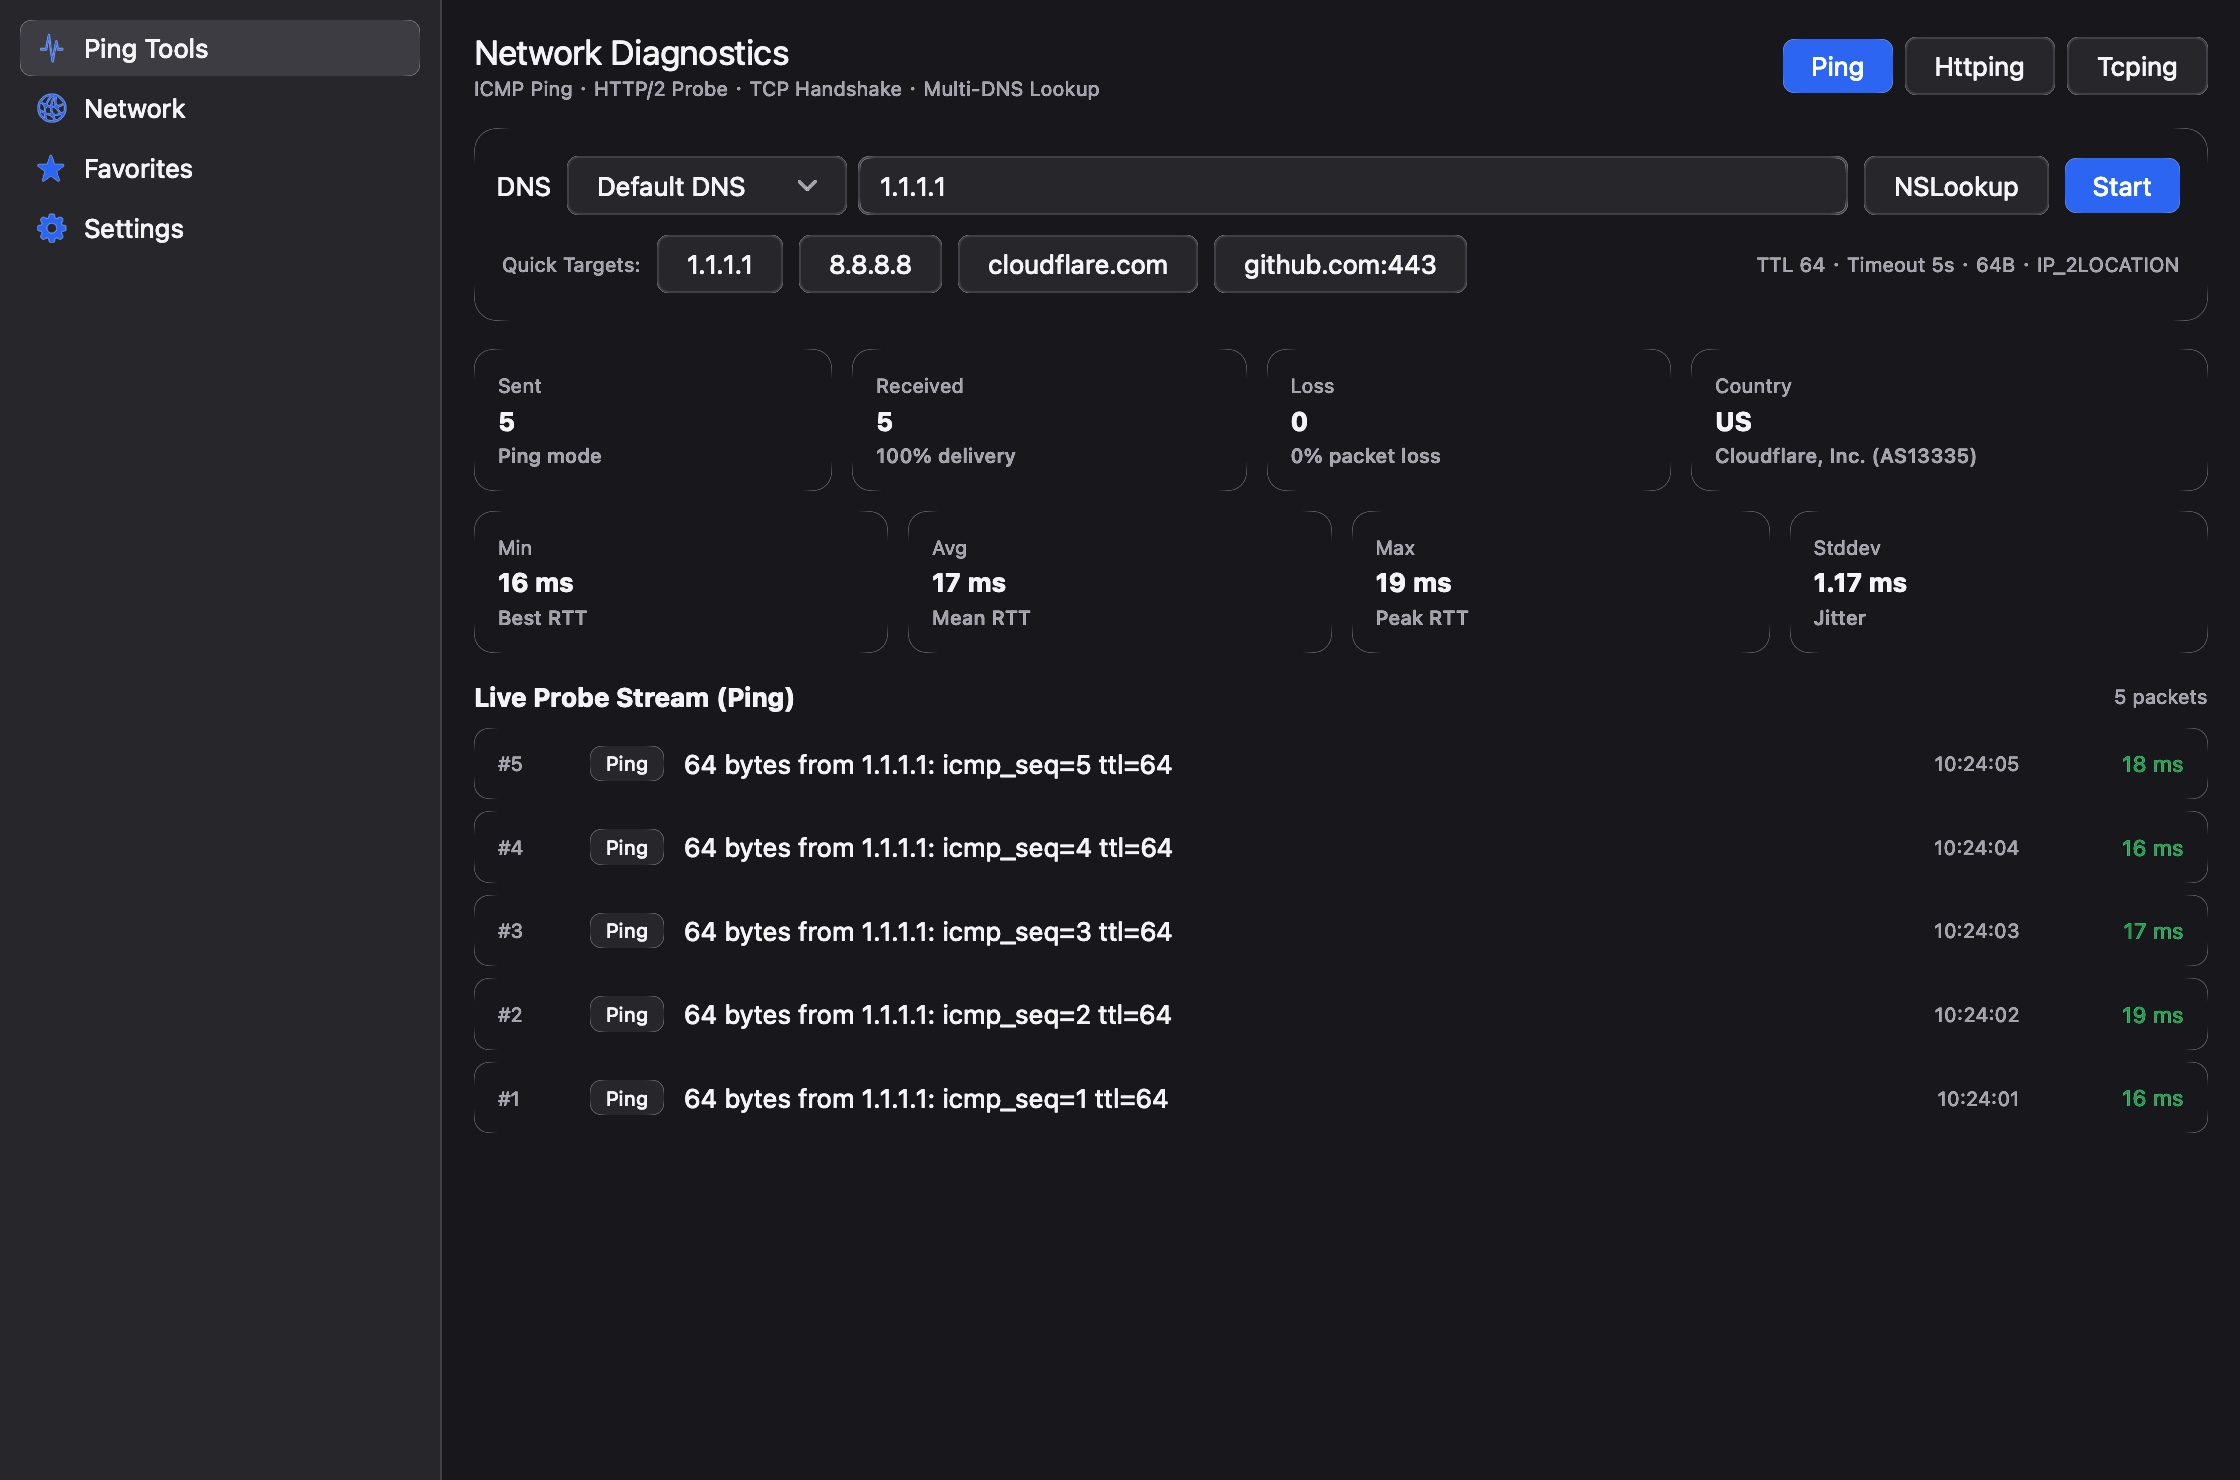
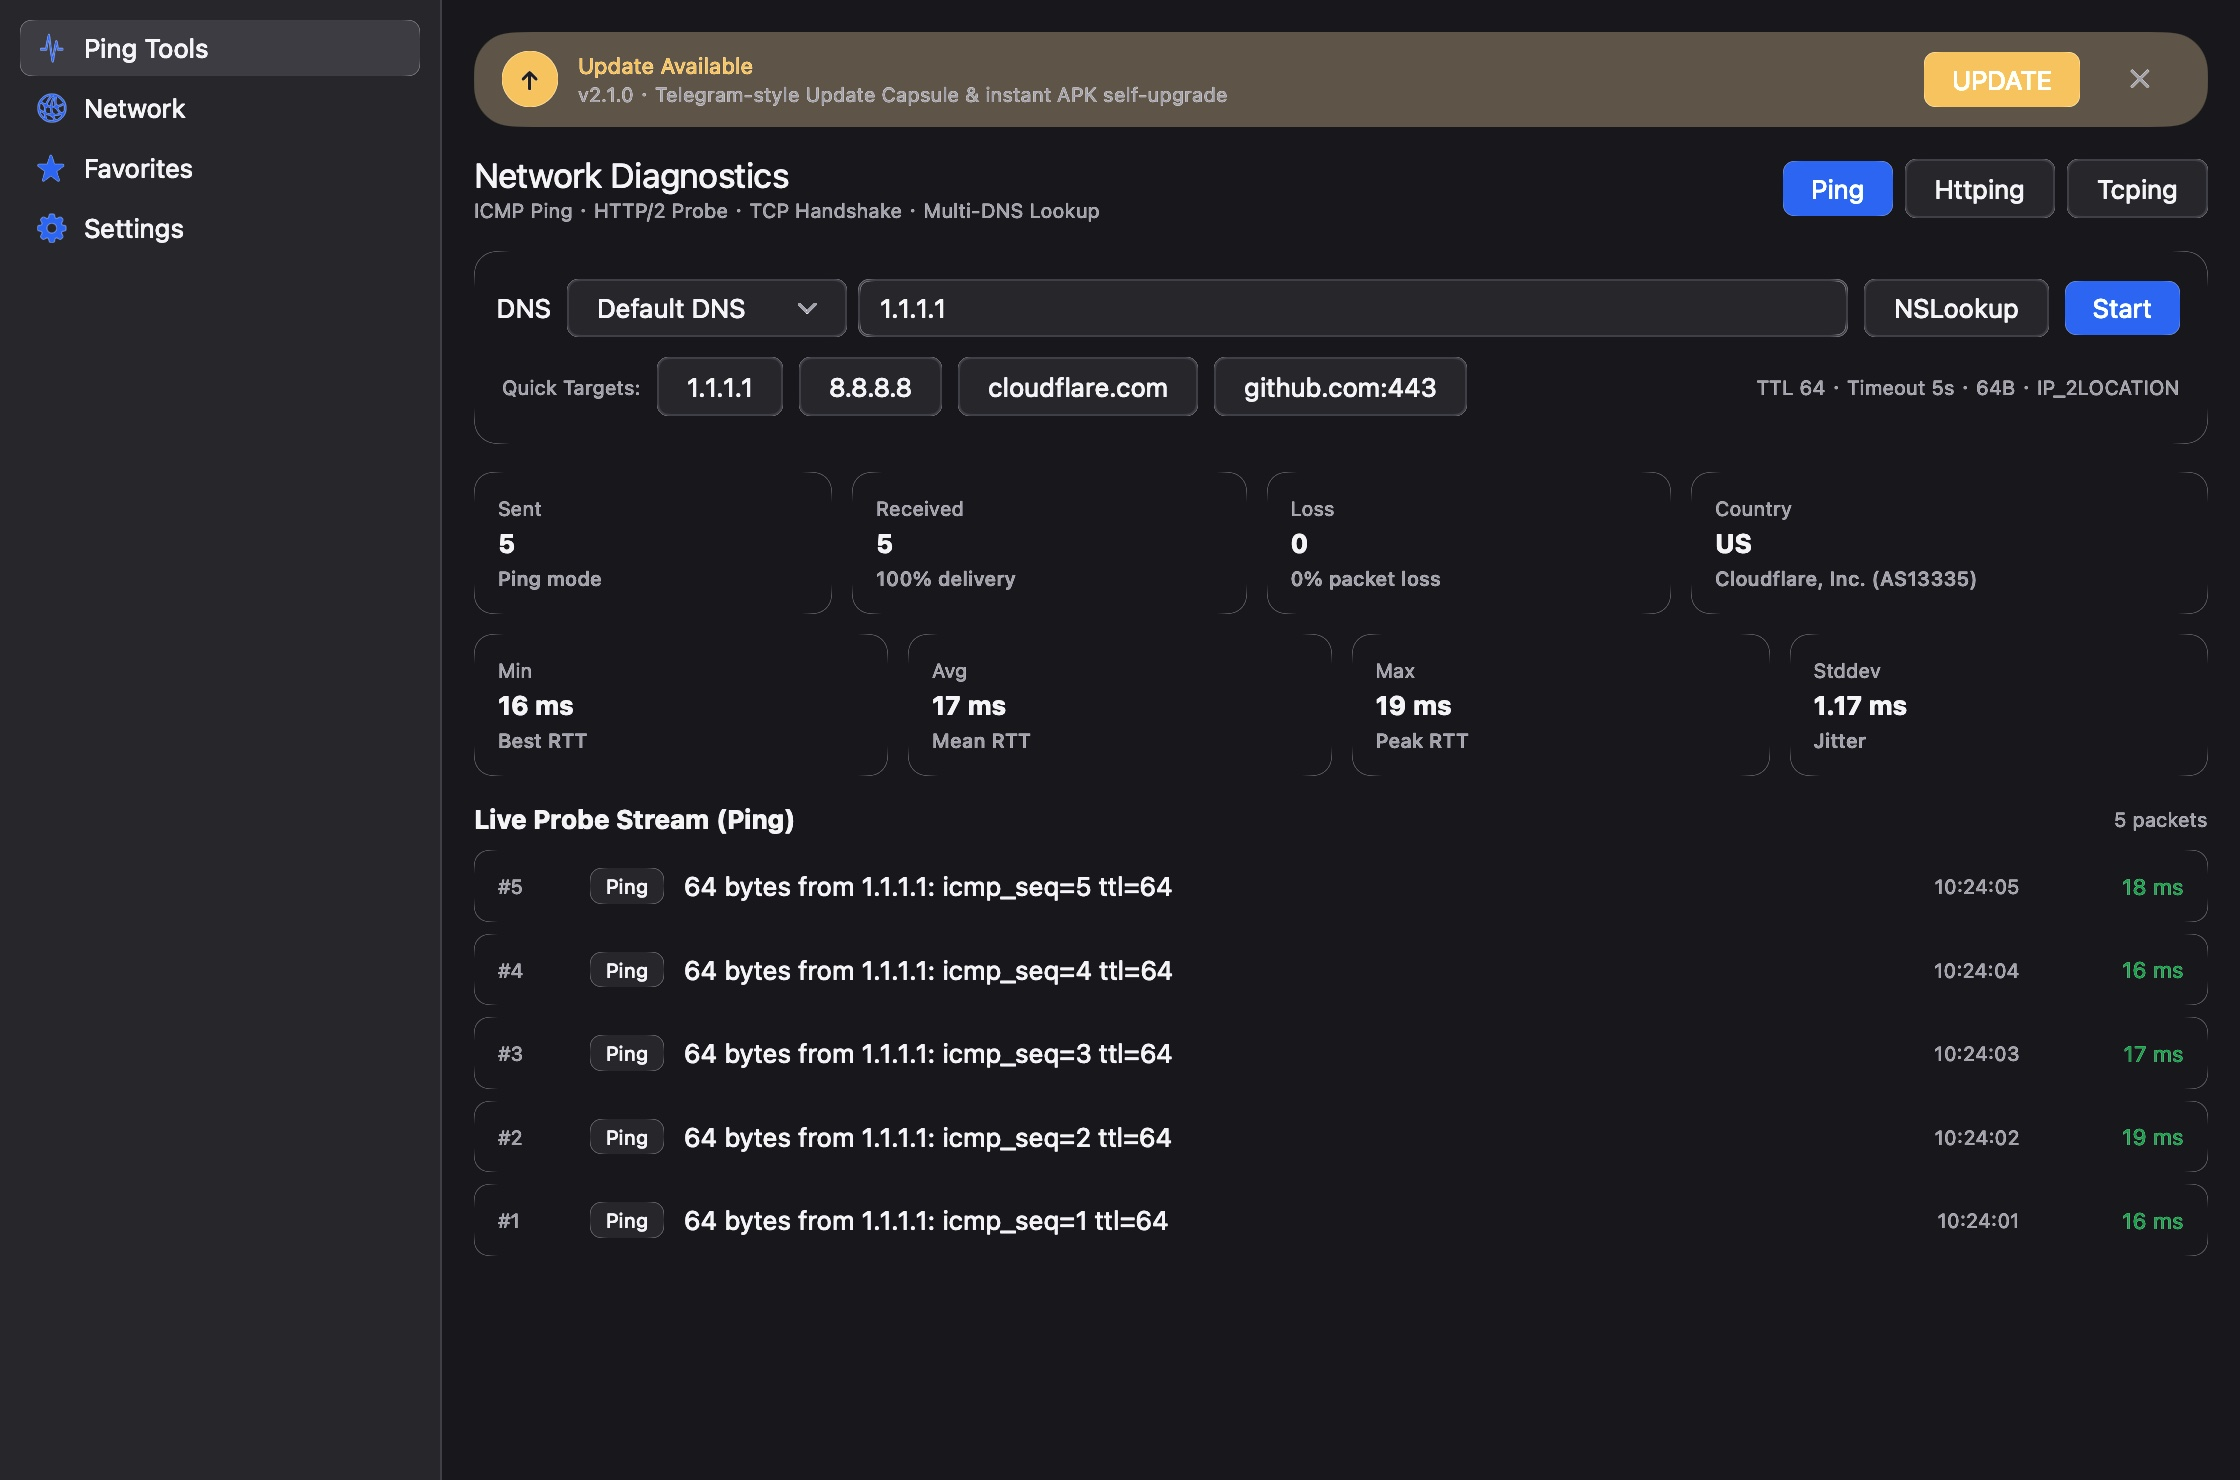
feat(update): integrate built-in MyPHP UpdateCapsule with GitHub Releases auto-check and in-app APK upgrade

diff --git a/src/LinkingApp.php b/src/LinkingApp.php
@@ -1,11 +1,21 @@
 <?php
 declare(strict_types=1);
 
-use MyPHP\{App, URLRequest, URLSession, Window};
+use MyPHP\{App, Shell, URLRequest, URLSession, Window};
 
 final class LinkingApp
 {
     public ?Window $window = null;
+
+    // App version & Update Capsule state (matches agc_toolkit UpdateCapsuleWidget)
+    public string $currentVersion = '2.0.0';
+    public string $updateStatus = 'idle'; // 'idle' | 'checking' | 'available' | 'downloading' | 'installing' | 'failed'
+    public string $updateVersion = '';
+    public string $updateNotes = '';
+    public string $updateDownloadUrl = 'https://github.com/owner888/agc_linking/releases/latest/download/Linking.apk';
+    public float $updateProgress = 0.0;
+    public bool $updateForce = false;
+    public string $skippedVersion = '';
 
     // Navigation tab: 'network' | 'ping' | 'favorites' | 'settings'
     public string $tab = 'ping';
@@ -108,6 +118,13 @@ final class LinkingApp
     public function __construct(bool $deterministicProbes = false)
     {
         $this->deterministicProbes = $deterministicProbes;
+        $cfgPath = dirname(__DIR__) . '/myphp.json';
+        if (is_file($cfgPath)) {
+            $cfg = json_decode((string) file_get_contents($cfgPath), true);
+            if (is_array($cfg) && !empty($cfg['version'])) {
+                $this->currentVersion = (string) $cfg['version'];
+            }
+        }
         $this->seedDefaults();
     }
 
@@ -646,6 +663,187 @@ final class LinkingApp
         $this->activeNodeId = $newId;
         $this->nodeImportInput = '';
         $this->appendLog('INFO', "Imported {$protocol} profile: {$name}");
+    }
+
+    // --- In-App Update Capsule Actions (GitHub Releases) ---
+
+    public function checkUpdate(bool $manual = false): void
+    {
+        if ($this->updateStatus === 'downloading' || $this->updateStatus === 'installing') {
+            return;
+        }
+        $this->updateStatus = 'checking';
+        if ($manual) {
+            $this->appendLog('INFO', "Checking GitHub Releases (owner888/agc_linking) for updates (current v{$this->currentVersion})...");
+        }
+
+        if ($this->deterministicProbes) {
+            $this->applyReleasePayload([
+                'tag_name' => 'v2.1.0',
+                'body' => 'Native GPU UpdateCapsule & faster multi-DNS probing',
+                'assets' => [
+                    [
+                        'name' => 'Linking.apk',
+                        'browser_download_url' => 'https://github.com/owner888/agc_linking/releases/latest/download/Linking.apk',
+                    ],
+                ],
+            ], $manual);
+            return;
+        }
+
+        if (class_exists(App::class)) {
+            App::go(function () use ($manual) {
+                try {
+                    $req = new URLRequest(
+                        'https://api.github.com/repos/owner888/agc_linking/releases/latest',
+                        headers: ['Accept' => 'application/vnd.github+json', 'User-Agent' => 'Linking-MyPHP/' . $this->currentVersion]
+                    );
+                    $data = URLSession::shared()->json($req);
+                    if (is_array($data)) {
+                        $this->applyReleasePayload($data, $manual);
+                    } else {
+                        $this->updateStatus = 'idle';
+                    }
+                } catch (\Throwable $e) {
+                    $this->updateStatus = 'idle';
+                    if ($manual) {
+                        $this->appendLog('ERROR', 'Update check failed: ' . $e->getMessage());
+                    }
+                }
+            });
+        }
+    }
+
+    /** @param array<string, mixed> $data */
+    private function applyReleasePayload(array $data, bool $manual): void
+    {
+        $tag = (string) ($data['tag_name'] ?? '');
+        $latest = ltrim($tag, 'vV');
+        if ($latest === '') {
+            $this->updateStatus = 'idle';
+            return;
+        }
+        $body = trim((string) ($data['body'] ?? ''));
+        $firstLine = strtok($body, "\r\n") ?: 'New version available on GitHub Releases';
+        $downloadUrl = 'https://github.com/owner888/agc_linking/releases/latest/download/Linking.apk';
+        foreach (($data['assets'] ?? []) as $asset) {
+            if (is_array($asset) && str_ends_with((string) ($asset['name'] ?? ''), '.apk')) {
+                $downloadUrl = (string) ($asset['browser_download_url'] ?? $downloadUrl);
+                break;
+            }
+        }
+
+        if (version_compare($latest, $this->currentVersion, '>')) {
+            if (!$manual && $this->skippedVersion === $latest) {
+                $this->updateStatus = 'idle';
+                return;
+            }
+            $this->updateVersion = $latest;
+            $this->updateNotes = $firstLine;
+            $this->updateDownloadUrl = $downloadUrl;
+            $this->updateProgress = 0.0;
+            $this->updateStatus = 'available';
+            $this->appendLog('INFO', "New version available: v{$latest} ({$firstLine})");
+        } else {
+            $this->updateStatus = 'idle';
+            if ($manual) {
+                $this->appendLog('INFO', "Already up to date (v{$this->currentVersion})");
+            }
+        }
+    }
+
+    public function simulateUpdateAvailable(): void
+    {
+        $this->updateVersion = '2.1.0';
+        $this->updateNotes = 'Telegram-style Update Capsule & instant APK self-upgrade';
+        $this->updateDownloadUrl = 'https://github.com/owner888/agc_linking/releases/latest/download/Linking.apk';
+        $this->updateProgress = 0.0;
+        $this->updateStatus = 'available';
+        $this->appendLog('INFO', 'Update capsule activated: v2.1.0 ready to install');
+    }
+
+    public function performUpdate(): void
+    {
+        if ($this->updateVersion === '' || $this->updateStatus === 'downloading' || $this->updateStatus === 'installing') {
+            return;
+        }
+        $this->updateStatus = 'downloading';
+        $this->updateProgress = 0.0;
+        $this->appendLog('INFO', "Downloading update v{$this->updateVersion} from {$this->updateDownloadUrl}...");
+
+        if ($this->deterministicProbes) {
+            $this->updateProgress = 1.0;
+            $this->updateStatus = 'installing';
+            $this->appendLog('INFO', "Update v{$this->updateVersion} downloaded; launching system package installer");
+            return;
+        }
+
+        if (class_exists(App::class)) {
+            $url = $this->updateDownloadUrl;
+            $ver = $this->updateVersion;
+            App::go(function () use ($url, $ver) {
+                $apkPath = rtrim(sys_get_temp_dir(), '/') . "/Linking_{$ver}.apk";
+                $fp = @fopen($apkPath, 'wb');
+                if ($fp === false) {
+                    $this->updateStatus = 'failed';
+                    $this->appendLog('ERROR', "Cannot write temporary APK to {$apkPath}");
+                    return;
+                }
+                $ch = curl_init($url);
+                $lastPct = -1;
+                curl_setopt_array($ch, [
+                    CURLOPT_FILE => $fp,
+                    CURLOPT_FOLLOWLOCATION => true,
+                    CURLOPT_MAXREDIRS => 8,
+                    CURLOPT_CONNECTTIMEOUT => 20,
+                    CURLOPT_TIMEOUT => 300,
+                    CURLOPT_SSL_VERIFYPEER => false,
+                    CURLOPT_NOPROGRESS => false,
+                    CURLOPT_PROGRESSFUNCTION => function ($resource, int $dlTotal, int $dlNow) use (&$lastPct): int {
+                        if ($dlTotal > 0) {
+                            $pct = (int) floor(($dlNow / $dlTotal) * 20) * 5;
+                            if ($pct !== $lastPct) {
+                                $lastPct = $pct;
+                                $this->updateProgress = min(0.99, $dlNow / $dlTotal);
+                            }
+                        }
+                        return 0;
+                    },
+                ]);
+                $ok = @curl_exec($ch);
+                $code = (int) curl_getinfo($ch, CURLINFO_HTTP_CODE);
+                $err = curl_error($ch);
+                curl_close($ch);
+                fclose($fp);
+
+                if ($ok && $code >= 200 && $code < 400 && is_file($apkPath) && filesize($apkPath) > 1024) {
+                    $this->updateProgress = 1.0;
+                    $this->updateStatus = 'installing';
+                    $this->appendLog('INFO', "APK downloaded ({$apkPath}); invoking system installer");
+                    try {
+                        Shell::openPath($apkPath);
+                    } catch (\Throwable) {
+                        try {
+                            Shell::openExternal($url);
+                        } catch (\Throwable) {}
+                    }
+                } else {
+                    @unlink($apkPath);
+                    $this->updateStatus = 'failed';
+                    $this->appendLog('ERROR', "APK download failed (HTTP {$code}): {$err}");
+                }
+            });
+        }
+    }
+
+    public function skipUpdate(): void
+    {
+        if ($this->updateVersion !== '') {
+            $this->skippedVersion = $this->updateVersion;
+            $this->appendLog('INFO', "Skipped update v{$this->skippedVersion}");
+        }
+        $this->updateStatus = 'idle';
+        $this->updateVersion = '';
     }
 
     // --- Settings Actions ---

diff --git a/view.php b/view.php
@@ -9,6 +9,17 @@ $okGreen = Color::rgb(0x16A34A);
 $warnAmber = Color::rgb(0xD97706);
 $errRed = Color::rgb(0xDC2626);
 
+$updateCapsuleBar = fn() => UpdateCapsule(
+    version: $this->updateVersion,
+    status: $this->updateStatus,
+    progress: $this->updateProgress,
+    notes: $this->updateNotes,
+    force: $this->updateForce,
+    onAction: fn() => $this->performUpdate(),
+    onDismiss: fn() => $this->skipUpdate(),
+    tint: $accentGold,
+);
+
 $statCard = fn(string $label, string $value, ?string $sub = null) => VStack(alignment: HorizontalAlignment::leading, spacing: 4)(
     Text($label)->font(Font::caption)->foregroundStyle(Color::secondary),
     Text(verbatim: $value)->font(Font::headline),
@@ -21,6 +32,8 @@ $statCard = fn(string $label, string $value, ?string $sub = null) => VStack(alig
 
 $pingView = fn() => ScrollView(Axis::vertical)(
     VStack(alignment: HorizontalAlignment::leading, spacing: 14)(
+        $updateCapsuleBar(),
+
         // Top Header + Mode Switcher
         HStack(alignment: VerticalAlignment::center, spacing: 12)(
             VStack(alignment: HorizontalAlignment::leading, spacing: 2)(
@@ -161,6 +174,8 @@ $pingView = fn() => ScrollView(Axis::vertical)(
 
 $networkView = fn() => ScrollView(Axis::vertical)(
     VStack(alignment: HorizontalAlignment::leading, spacing: 16)(
+        $updateCapsuleBar(),
+
         // Connection Hero Card
         VStack(alignment: HorizontalAlignment::leading, spacing: 12)(
             HStack(alignment: VerticalAlignment::center, spacing: 12)(
@@ -260,6 +275,7 @@ $networkView = fn() => ScrollView(Axis::vertical)(
 
 $favoritesView = fn() => ScrollView(Axis::vertical)(
     VStack(alignment: HorizontalAlignment::leading, spacing: 16)(
+        $updateCapsuleBar(),
         Text('Favorites & Probe History')->font(Font::title2),
 
         // Add New Favorite Host Card
@@ -343,9 +359,20 @@ $favoritesView = fn() => ScrollView(Axis::vertical)(
 
 $settingsView = fn() => ScrollView(Axis::vertical)(
     VStack(alignment: HorizontalAlignment::leading, spacing: 16)(
+        $updateCapsuleBar(),
+
         HStack(alignment: VerticalAlignment::center, spacing: 12)(
-            Text('Settings & Diagnostic Logs')->font(Font::title2),
+            VStack(alignment: HorizontalAlignment::leading, spacing: 2)(
+                Text('Settings & Diagnostic Logs')->font(Font::title2),
+                Text(verbatim: "Linking v{$this->currentVersion} · Package easy.net.tool")
+                    ->font(Font::caption)
+                    ->foregroundStyle(Color::secondary),
+            ),
             Spacer(),
+            Button('Check for Updates', action: fn() => $this->checkUpdate(true))
+                ->buttonStyle(ButtonStyle::borderedProminent),
+            Button('Preview Update Capsule', action: fn() => $this->simulateUpdateAvailable())
+                ->buttonStyle(ButtonStyle::bordered),
             Button('Reset to Default', action: fn() => $this->resetConfig())
                 ->buttonStyle(ButtonStyle::bordered),
         ),

diff --git a/tests/ui_test.php b/tests/ui_test.php
@@ -64,13 +64,32 @@ $h->clickText('Add Host');
 $h->frame();
 same(5, count($app->favorites), 'Added Quad9 to favorites');
 
-// 6. Switch to Settings tab and test Reset to Default
+// 6. Switch to Settings tab and test Reset to Default & In-App Update Capsule
 $app->tab = 'settings';
 $app->ttl = 128;
 $h->frame();
 $h->clickText('Reset to Default');
 $h->frame();
 same(64, $app->ttl, 'Reset to Default restored TTL to 64');
+
+$h->clickText('Check for Updates');
+$h->frame();
+same('available', $app->updateStatus, 'Check for Updates detected v2.1.0');
+check($h->byText('Update Available') !== null, 'Update Capsule banner is rendered');
+check($h->byText('UPDATE') !== null, 'UPDATE action pill is rendered');
+
+$h->clickText('UPDATE');
+$h->frame();
+same('installing', $app->updateStatus, 'Clicking UPDATE downloaded and entered installing state');
+check($h->byText('Installing...') !== null, 'Update Capsule displays Installing...');
+
+// Test dismissing / skipping update capsule
+$app->simulateUpdateAvailable();
+$h->frame();
+$h->clickText('✕');
+$h->frame();
+same('idle', $app->updateStatus, 'Clicking dismiss ✕ hides the Update Capsule');
+same('2.1.0', $app->skippedVersion, 'Skipped version recorded as 2.1.0');
 
 echo "All Linking headless UI tests passed!\n";
 exit(empty($GLOBALS['failures']) ? 0 : 1);

diff --git a/app.php b/app.php
@@ -19,5 +19,6 @@ App::whenReady(function () use ($app) {
         stateKey: 'main',
         content: Content::file(__DIR__ . '/view.php', $app),
     ));
+    $app->checkUpdate(false);
 });
 App::run();
